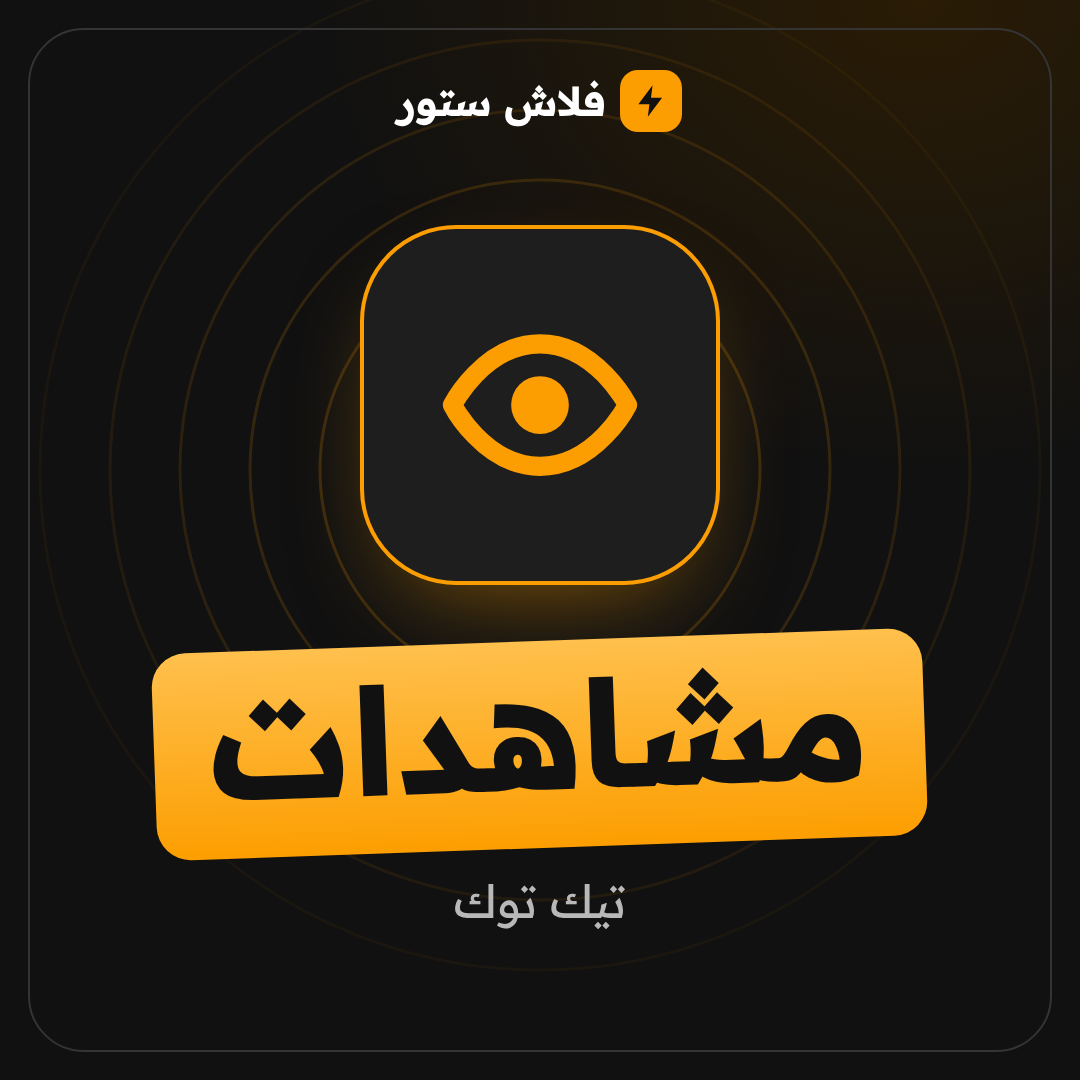
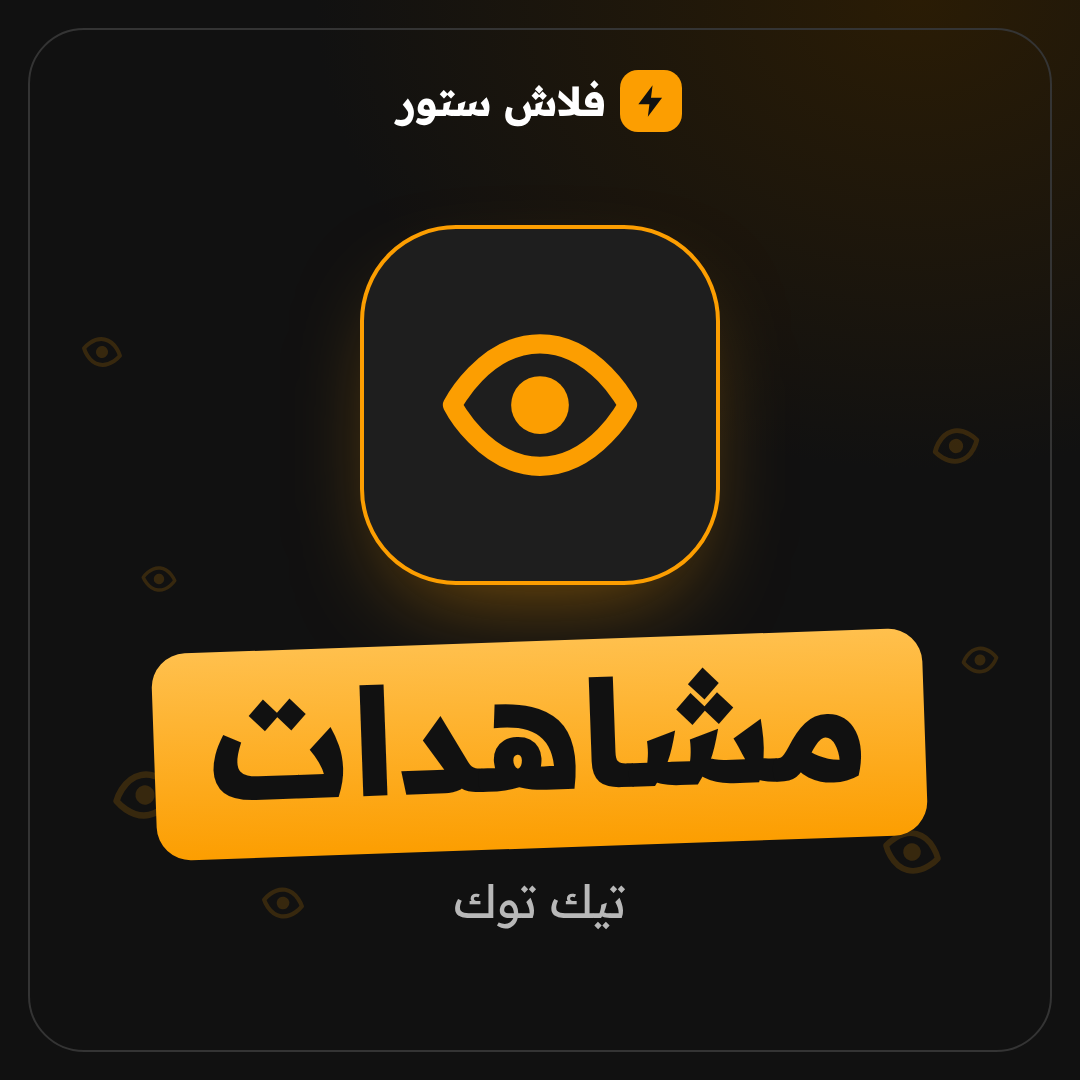
Views image: scattered eyes background like the other services
Claude-Session: https://claude.ai/code/session_01Jr2byRzhdfLVFbNc9Z4Y48

diff --git a/salla/v4/images.js b/salla/v4/images.js
@@ -86,14 +86,10 @@ function pack(p, level, total) {
   <div class="row">${stats}</div>`;
 }
 
-// نقش خلفية خاص بكل خدمة (خفيف، عشان ما يزحم)
+// نقش خلفية: أيقونة الخدمة نفسها صغيرة ومتفرقة (عيون للمشاهدات، قلوب للايكات...)، خفيف عشان ما يزحم
 function motif(icon) {
   const cells = [];
   const pos = [[110, 760, 70, -12], [260, 880, 46, 10], [880, 820, 64, 14], [960, 640, 40, -8], [140, 560, 38, 6], [930, 420, 52, -16], [80, 330, 44, 12]];
-  if (icon === 'i-eye') {
-    for (let k = 1; k <= 5; k++) cells.push(`<circle cx="540" cy="470" r="${150 + k * 70}" fill="none" stroke="${C.p}" stroke-opacity="${(0.22 - k * 0.035).toFixed(3)}" stroke-width="3"/>`);
-    return `<svg width="1080" height="1080" style="position:absolute;inset:0">${cells.join('')}</svg>`;
-  }
   return pos.map(([x, y, s, r]) => ic(icon, s, C.p, `position:absolute;left:${x}px;top:${y}px;opacity:.16;transform:rotate(${r}deg)`)).join('');
 }
 
